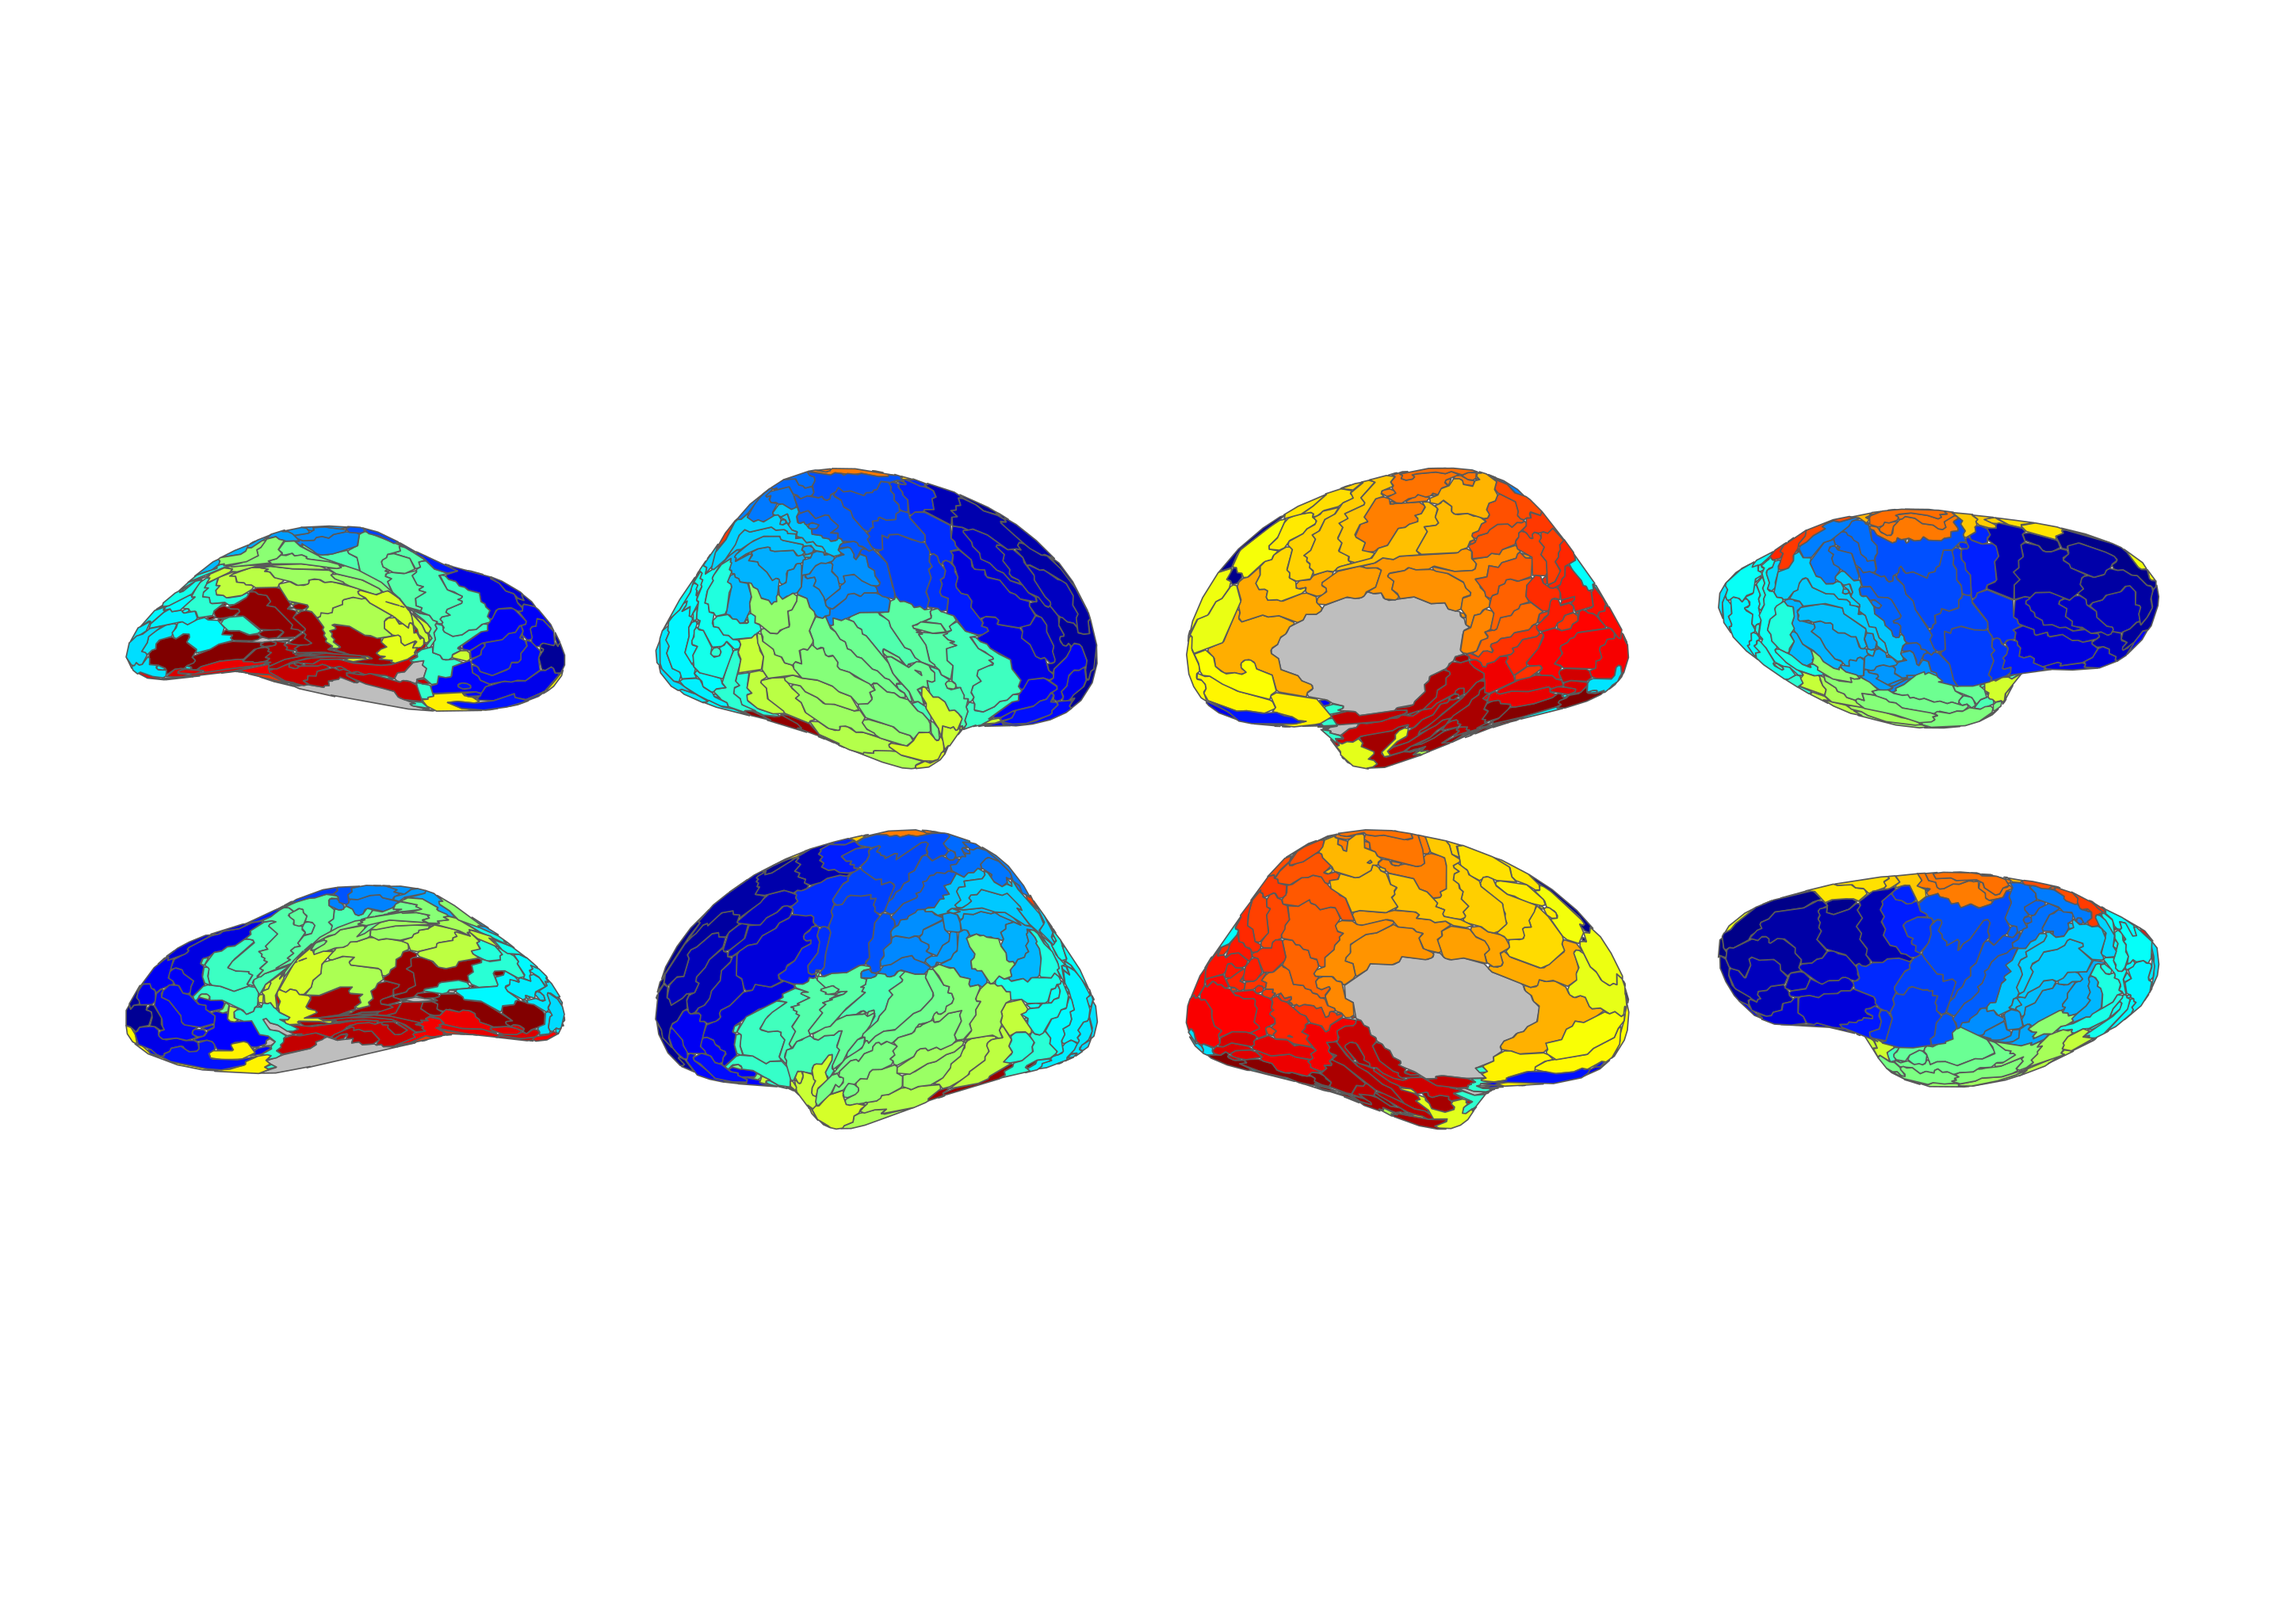
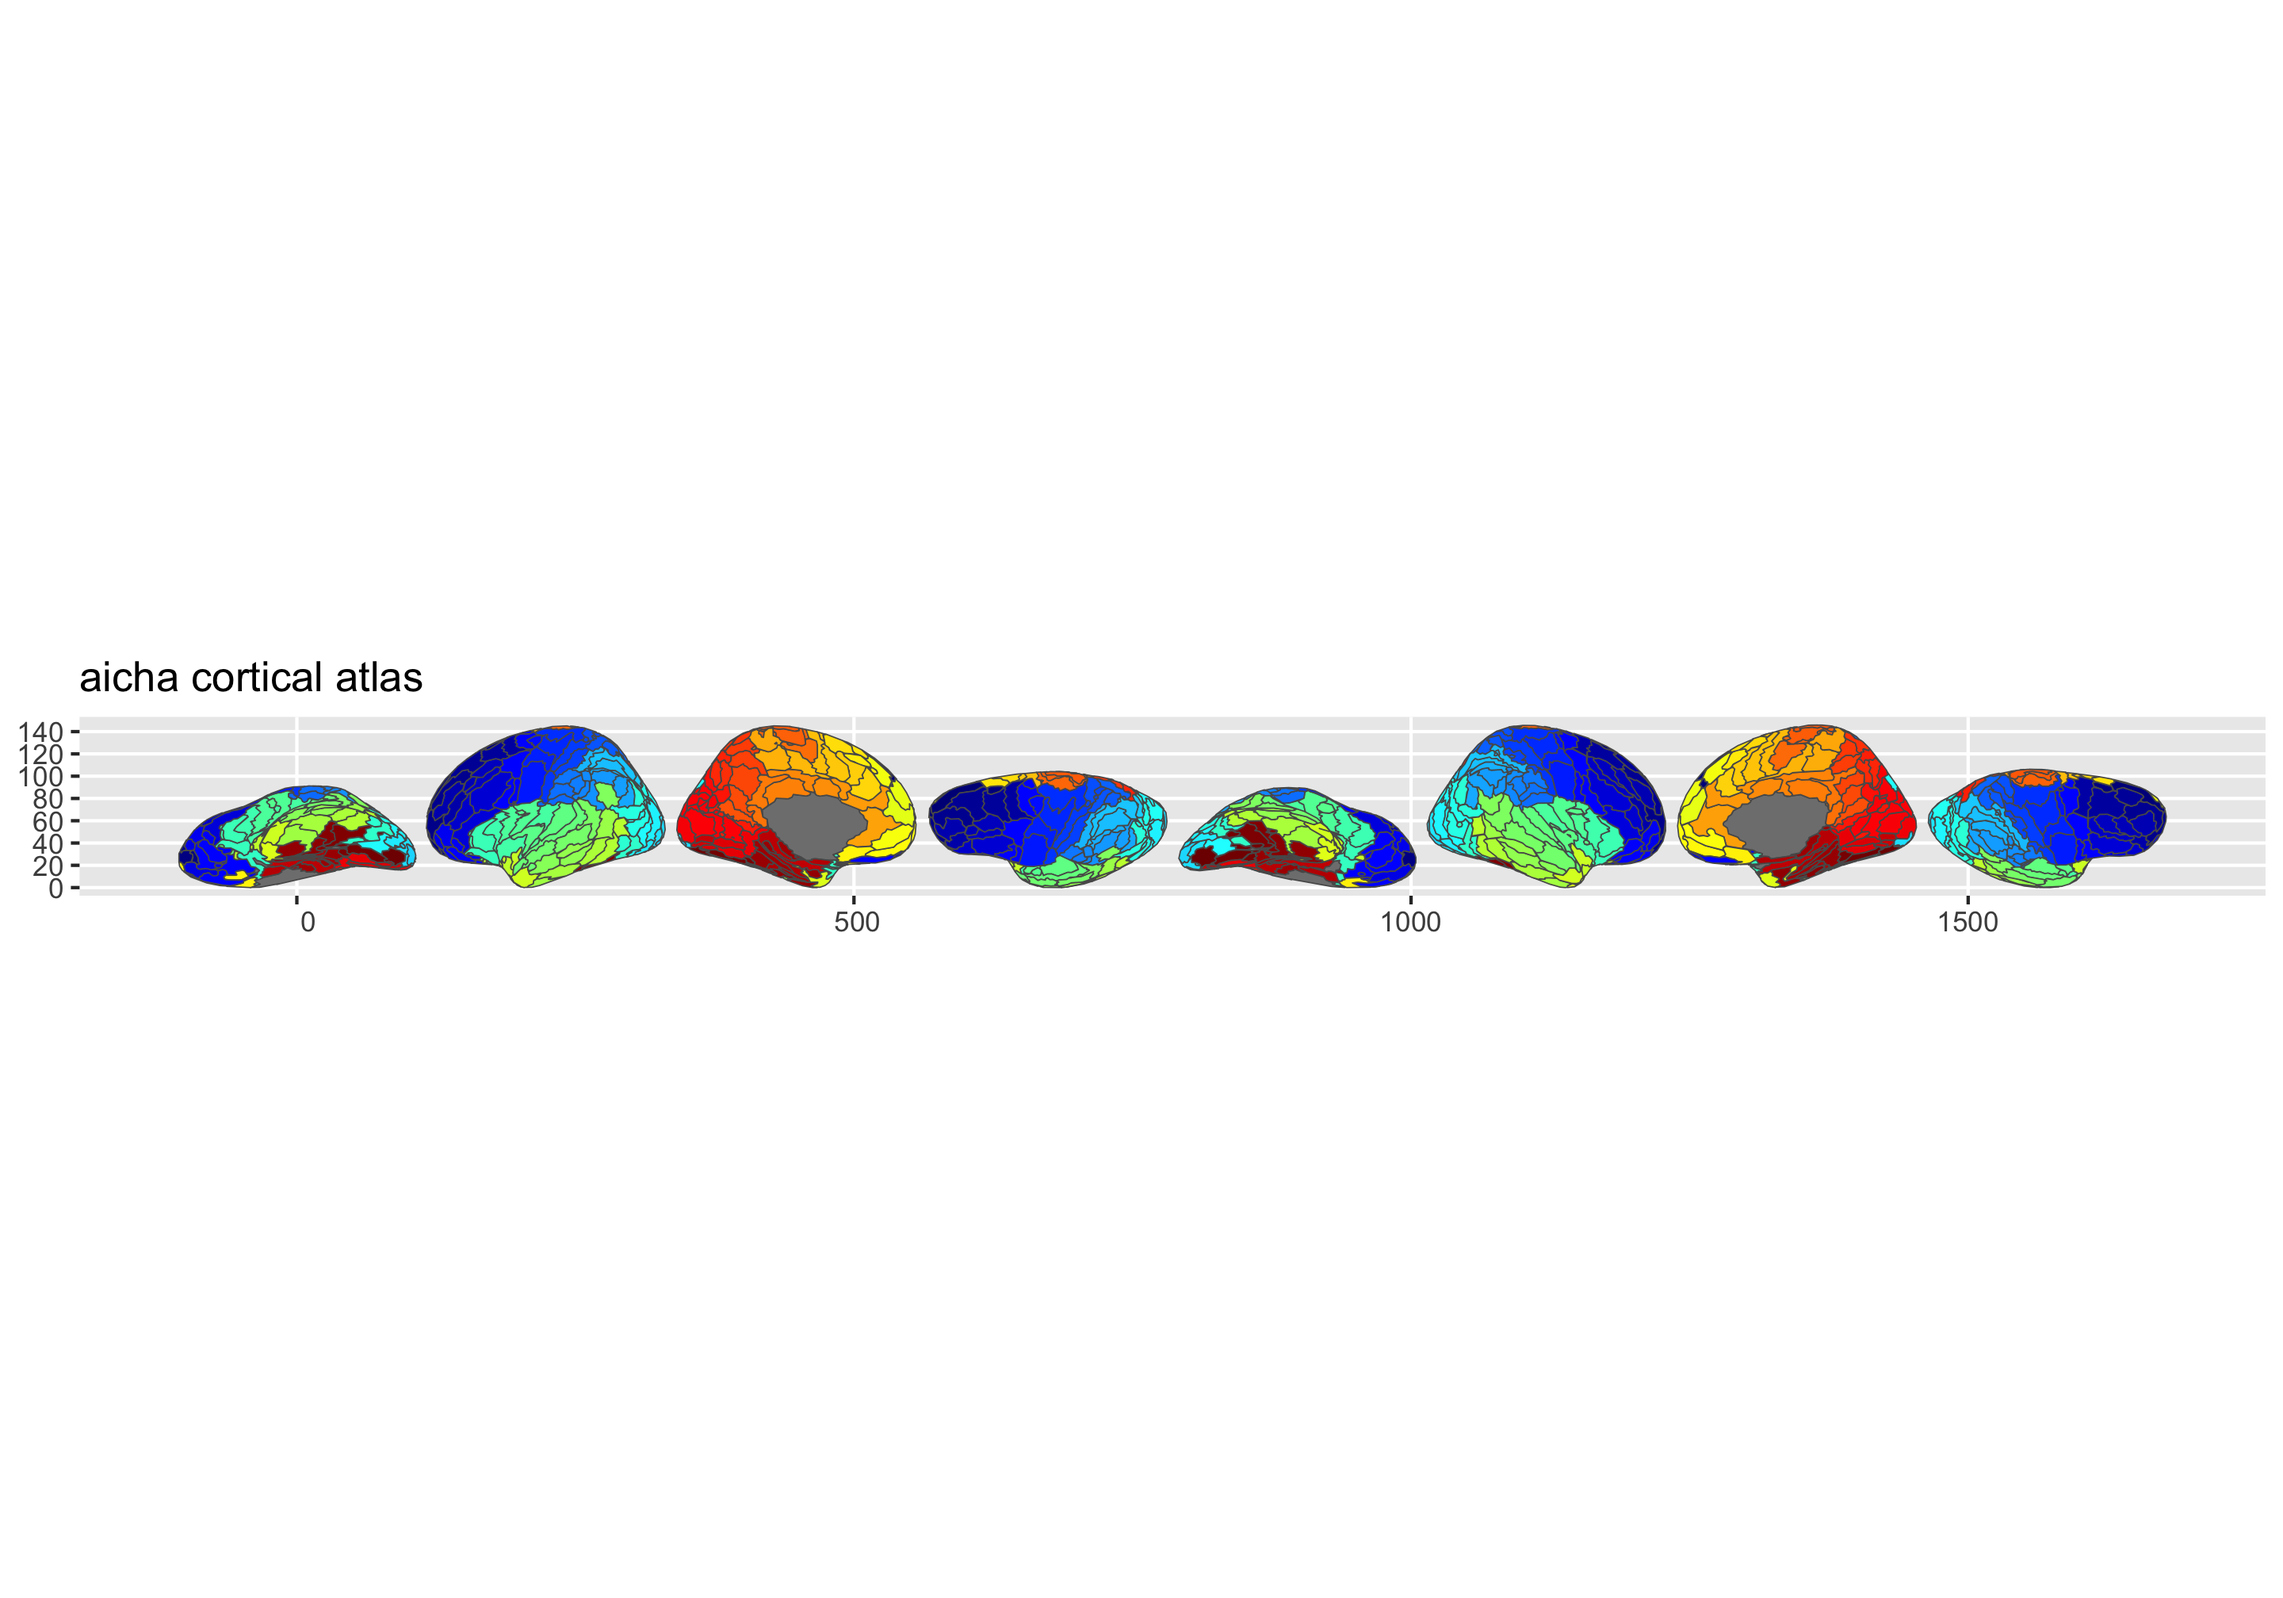
Simplify README plots to use plot() and re-render

Changed region(s): [[0.0, 0.2812, 1.0, 0.7188]]

diff --git a/README.md b/README.md
@@ -42,17 +42,8 @@ pak::pak("ggsegverse/ggsegAicha")
 ``` r
 library(ggseg)
 library(ggsegAicha)
-library(ggplot2)
 
-ggplot() +
-  geom_brain(
-    atlas = aicha(),
-    mapping = aes(fill = label),
-    position = position_brain(hemi ~ view),
-    show.legend = FALSE
-  ) +
-  scale_fill_manual(values = aicha()$palette, na.value = "grey") +
-  theme_void()
+plot(aicha())
 ```
 
 <img src="man/figures/README-aicha-1.png" style="width:100.0%" />
